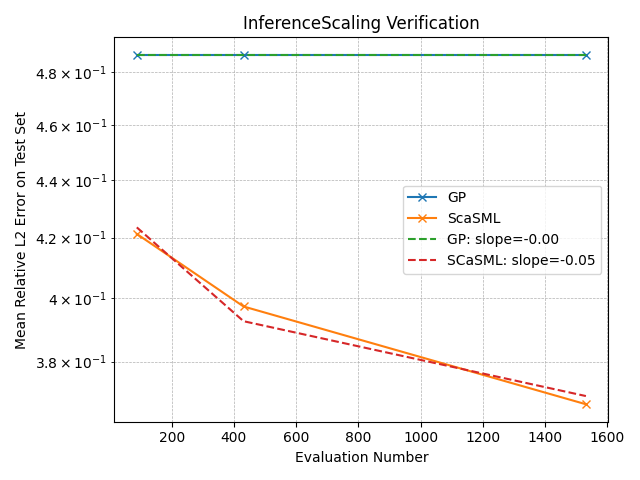
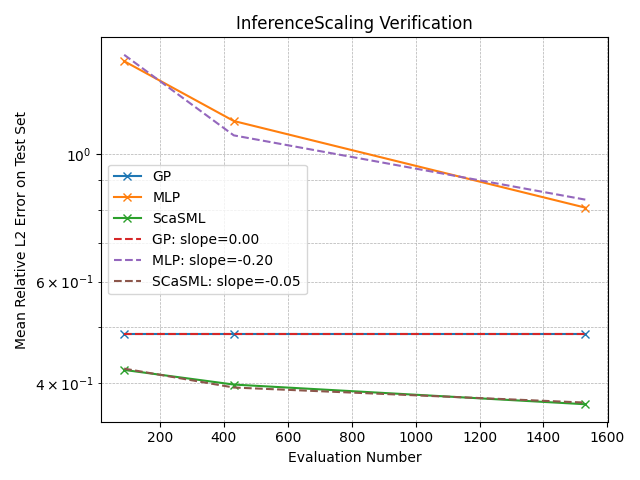
Add MLP result

diff --git a/tests/InferenceScaling.py b/tests/InferenceScaling.py
@@ -91,7 +91,7 @@ class InferenceScaling(object):
         train_sizes_boundary = 100
         eval_counter_list = []
         error1_list = []
-        # error2_list = []
+        error2_list = []
         error3_list = []
     
         # Generate test data (fixed)
@@ -118,22 +118,22 @@ class InferenceScaling(object):
             sol1 = self.solver1.predict(xt_values)
         
             # # Solve with solver2 (baseline solver)
-            # sol2 = self.solver2.u_solve(rho, rho, xt_values)
+            sol2 = self.solver2.u_solve(rho, rho, xt_values)
         
             # Solve with solver3 using the trained solver1
             sol3 = self.solver3.u_solve(rho, rho, xt_values)
         
             # Compute errors
             errors1 = np.linalg.norm(sol1 - exact_sol)
-            # errors2 = np.linalg.norm(sol2 - exact_sol)
+            errors2 = np.linalg.norm(sol2 - exact_sol)
             errors3 = np.linalg.norm(sol3 - exact_sol)
         
             error_value1 = errors1 / np.linalg.norm(exact_sol)
-            # error_value2 = errors2 / np.linalg.norm(exact_sol)
+            error_value2 = errors2 / np.linalg.norm(exact_sol)
             error_value3 = errors3 / np.linalg.norm(exact_sol)
 
             error1_list.append(error_value1)
-            # error2_list.append(error_value2)
+            error2_list.append(error_value2)
             error3_list.append(error_value3)
 
             eval_counter_list.append(self.solver3.evaluation_counter)
@@ -143,28 +143,28 @@ class InferenceScaling(object):
         epsilon = 1e-10  # To avoid log(0)
 
         error1_array = np.array(error1_list)
-        # error2_array = np.array(error2_list)
+        error2_array = np.array(error2_list)
         error3_array = np.array(error3_list)
         evaluation_counter_array = np.array(eval_counter_list)
 
         plt.plot(evaluation_counter_array, error1_array, marker='x', linestyle='-', label='GP')
-        # plt.plot(evaluation_counter_array, error2_array, marker='x', linestyle='-', label='MLP')
+        plt.plot(evaluation_counter_array, error2_array, marker='x', linestyle='-', label='MLP')
         plt.plot(evaluation_counter_array, error3_array, marker='x', linestyle='-', label='ScaSML')
         
         # Fit lines to compute slopes
         log_GN_steps = np.log10(evaluation_counter_array + epsilon)
         log_error1 = np.log10(error1_array+ epsilon)
-        # log_error2 = np.log10(error2_array+ epsilon)
+        log_error2 = np.log10(error2_array+ epsilon)
         log_error3 = np.log10(error3_array+ epsilon) 
         slope1, intercept1 = np.polyfit(log_GN_steps, log_error1, 1)
-        # slope2, intercept2 = np.polyfit(log_GN_steps, log_error2, 1)
+        slope2, intercept2 = np.polyfit(log_GN_steps, log_error2, 1)
         slope3, intercept3 = np.polyfit(log_GN_steps, log_error3, 1)
         fitted_line1 = 10 ** (intercept1 + slope1 * log_GN_steps)
-        # fitted_line2 = 10 ** (intercept2 + slope2 * log_GN_steps)
+        fitted_line2 = 10 ** (intercept2 + slope2 * log_GN_steps)
         fitted_line3 = 10 ** (intercept3 + slope3 * log_GN_steps)
         
         plt.plot(evaluation_counter_array, fitted_line1, linestyle='--', label=f'GP: slope={slope1:.2f}')
-        # plt.plot(evaluation_counter_array, fitted_line2, linestyle='--', label=f'MLP: slope={slope2:.2f}')
+        plt.plot(evaluation_counter_array, fitted_line2, linestyle='--', label=f'MLP: slope={slope2:.2f}')
         plt.plot(evaluation_counter_array, fitted_line3, linestyle='--', label=f'SCaSML: slope={slope3:.2f}')
 
         plt.yscale('log')

diff --git a/solvers/MLP.py b/solvers/MLP.py
@@ -36,7 +36,7 @@ class MLP:
         Returns:
             array: The output of the generator function of shape (batch_size,).
         '''
-        self.evaluation_counter += 1
+        # self.evaluation_counter += 1
         eq = self.equation
         return eq.f(x_t, u, z)
     
@@ -50,7 +50,7 @@ class MLP:
         Returns:
             array: The output of the terminal constraint function of shape (batch_size,).
         '''
-        self.evaluation_counter += 1
+        # self.evaluation_counter += 1
         eq = self.equation
         return eq.g(x_t)[:, 0]
     
@@ -266,7 +266,8 @@ class MLP:
                     delta_t = (cloc[:, k, q - 1] - t + 1e-6)[:, jnp.newaxis]  # Avoid division by zero, shape (batch_size, 1)
                     z -= wloc[:, k, q - 1][:, jnp.newaxis] * jnp.sum(y * W, axis=1) / (MC * delta_t)  # Adjust z values
         output_cated = jnp.concatenate((u, z), axis=-1)  # Concatenate adjusted u and z values, shape (batch_size, dim + 1)
-        return jnp.clip(output_cated, -1, 1)  # Clip the output to avoid numerical instability
+        uncertainty = self.equation.uncertainty
+        return jnp.clip(output_cated, -10*uncertainty, 10*uncertainty)  # Clip the output to avoid numerical instability
 
     def u_solve(self, n, rho, x_t):
         '''

diff --git a/solvers/MLP_full_history.py b/solvers/MLP_full_history.py
@@ -40,7 +40,7 @@ class MLP_full_history(object):
         '''
         # batch_size=x_t.shape[0]
         # self.evaluation_counter+=batch_size
-        self.evaluation_counter+=1
+        # self.evaluation_counter+=1
         eq = self.equation
         return eq.f(x_t, u, z)
     
@@ -56,7 +56,7 @@ class MLP_full_history(object):
         '''
         # batch_size=x_t.shape[0]
         # self.evaluation_counter+=batch_size
-        self.evaluation_counter+=1
+        # self.evaluation_counter+=1
         eq = self.equation
         return eq.g(x_t)[:,0]
     
@@ -179,7 +179,8 @@ class MLP_full_history(object):
                 delta_sqrt_t = jnp.sqrt(sampled_time_steps + 1e-6)  # Avoid division by zero, shape (batch_size, 1)
                 z += (T-t)[:,jnp.newaxis] * jnp.mean((y * std_normal / (delta_sqrt_t)),axis=1)  # Update z values  
         output_cated = jnp.concatenate((u, z), axis=-1)  # Concatenate adjusted u and z values, shape (batch_size, dim + 1)
-        return jnp.clip(output_cated, -1, 1)  # Clip the output to avoid numerical instability
+        uncertainty = self.equation.uncertainty
+        return jnp.clip(output_cated, -10*uncertainty, 10*uncertainty)  # Clip the output to avoid numerical instability
     
     def u_solve(self, n, rho, x_t):
         '''
